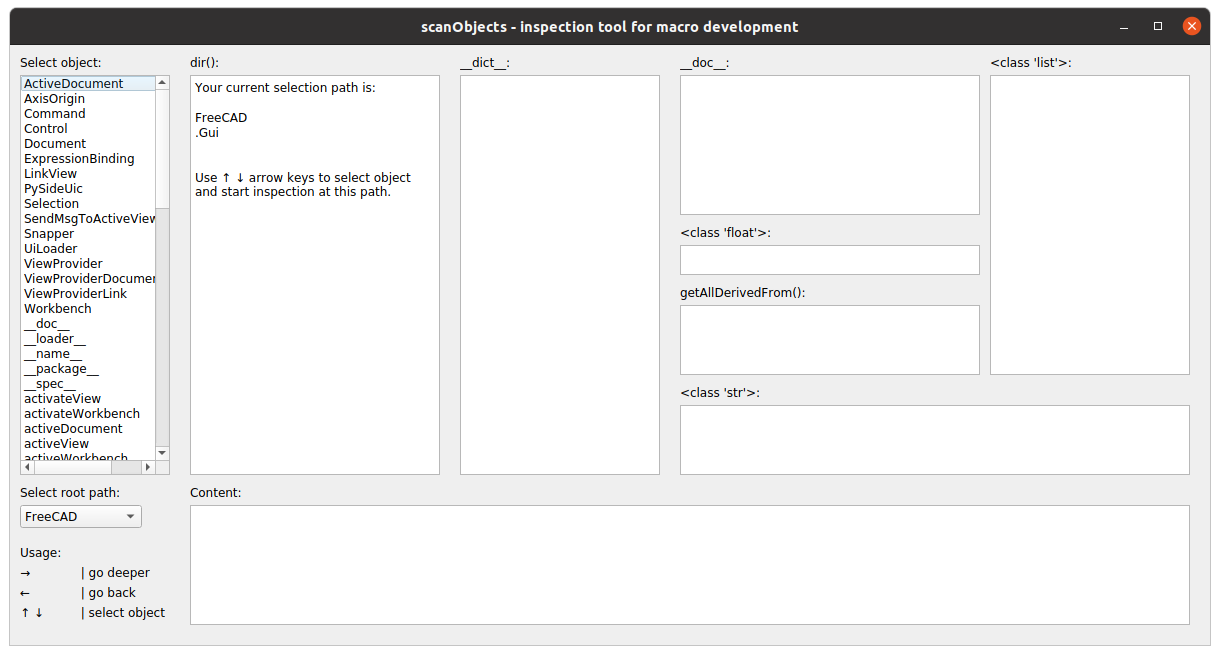
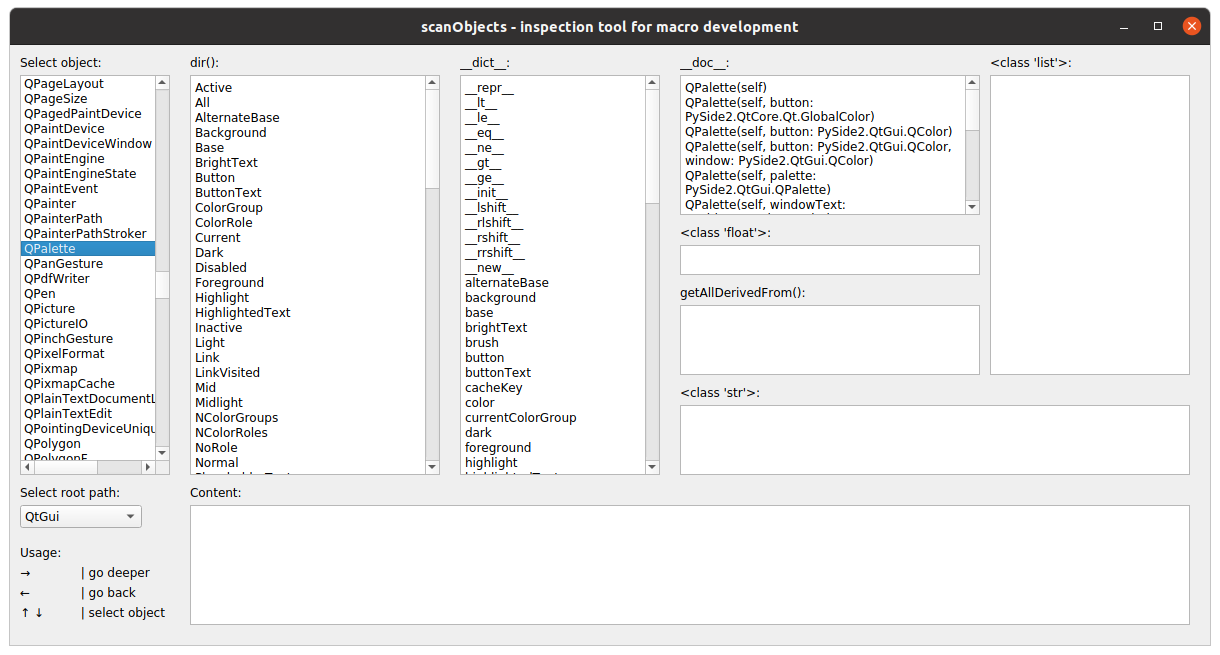
add QtGui & QtCore roots

diff --git a/scanObjects.py b/scanObjects.py
@@ -2,7 +2,7 @@
 
 # Inspection tool for FreeCAD macro development.
 # Author: Darek L (aka dprojects)
-# Version: 1.2 (entry level)
+# Version: 2.0 ( looks stable )
 # Latest version: https://github.com/dprojects/scanObjects
 
 import FreeCAD, Draft, Spreadsheet
@@ -66,7 +66,7 @@ def showQtGUI():
 			self.rootL.move(10, 440)
 			
 			# options
-			self.rootList = ("my project root","FreeCAD")
+			self.rootList = ("my project root","FreeCAD", "QtGui", "QtCore")
 			self.rootO = QtGui.QComboBox(self)
 			self.rootO.addItems(self.rootList)
 			self.rootO.setCurrentIndex(self.rootList.index("my project root"))
@@ -230,19 +230,31 @@ def showQtGUI():
 			# clear db before root set
 			self.clearDB()
 
+			from PySide import QtGui, QtCore
+
 			if selectedText == "my project root":
 
-				# init db
 				root = FreeCAD.activeDocument().Objects
 				rootS= "FreeCAD.activeDocument().Objects"
 				self.addSelection("", root, rootS)
 				
 			if selectedText == "FreeCAD":
 
-				# init db
 				root = dir(FreeCAD)
 				rootS= "FreeCAD"
 				self.addSelection(FreeCAD, root, rootS)
+
+			if selectedText == "QtGui":
+
+				root = dir(QtGui)
+				rootS= "QtGui"
+				self.addSelection(QtGui, root, rootS)
+
+			if selectedText == "QtCore":
+
+				root = dir(QtCore)
+				rootS= "QtCore"
+				self.addSelection(QtCore, root, rootS)
 
 		def setOutput(self, iObj):
 
